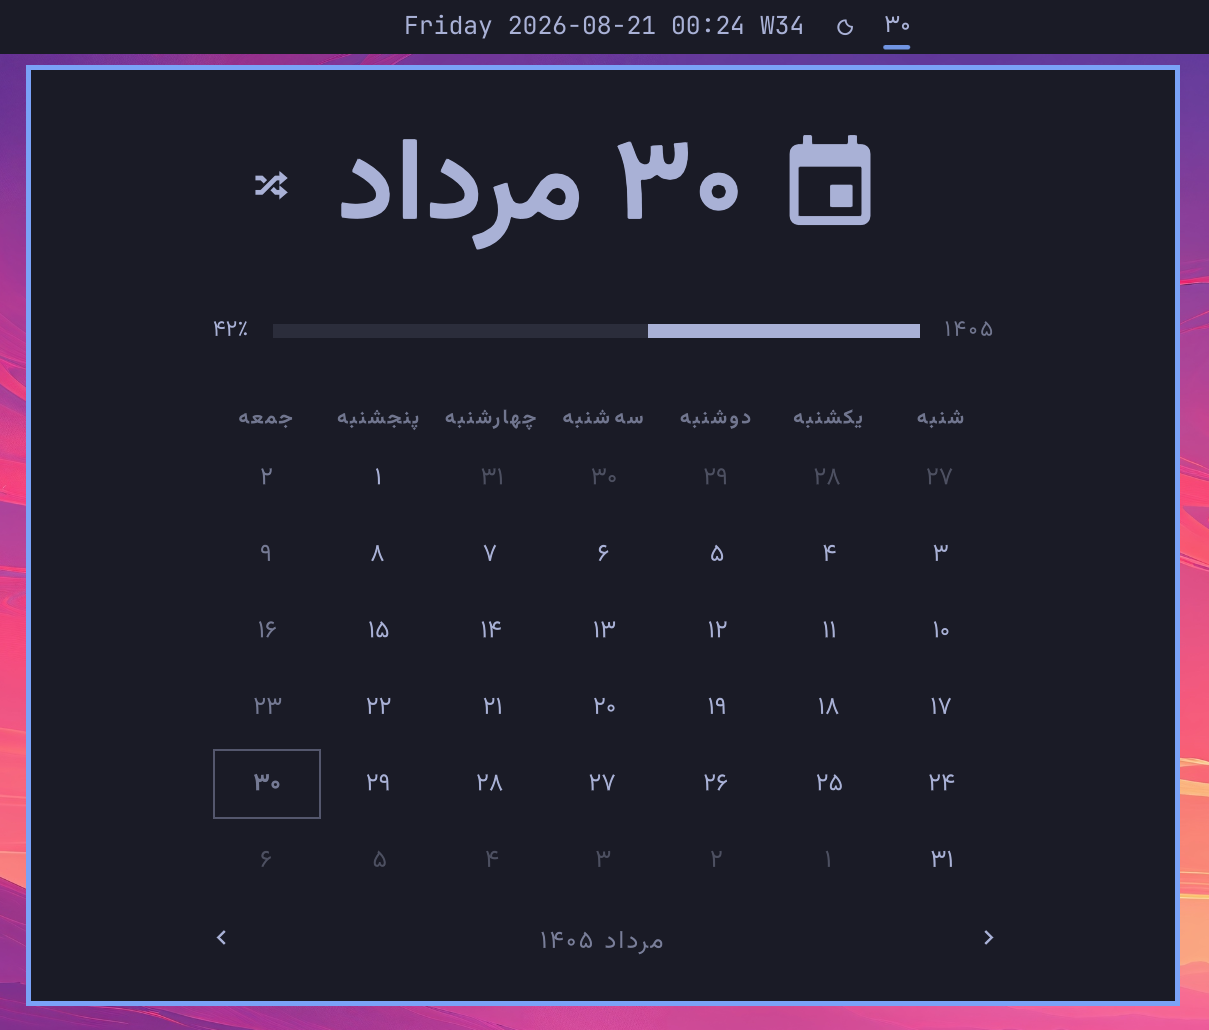
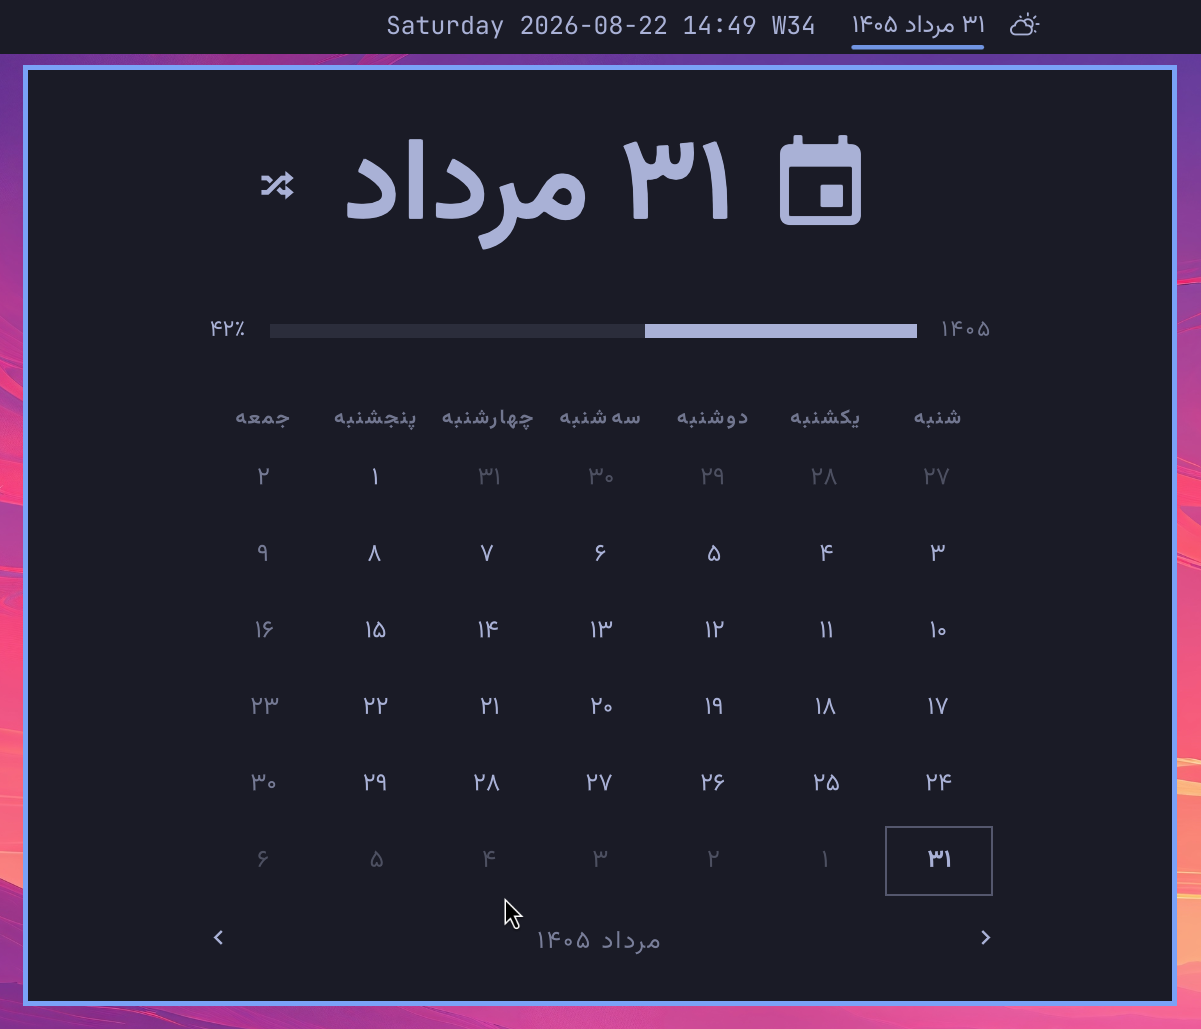
Add persistent Persian bar date formats
- Update preview image
- Update README

diff --git a/BarWidget.qml b/BarWidget.qml
@@ -7,15 +7,19 @@ import "Model.js" as Model
 
 // Persian day-of-month label for the bar, and host for the Jalali calendar.
 //
-// Left click reveals the calendar; middle click opens the timezone picker.
+// Left click reveals the calendar, right click cycles Persian label formats,
+// and middle click opens the timezone picker.
 BarWidget {
   id: root
   moduleName: "leomoon-studios.omarchy-persian-calendar"
 
   property date displayDate: clock.date
 
-  readonly property var persianDate: Model.persianForDate(displayDate)
-  readonly property string displayText: Model.toPersianDigits(persianDate.day)
+  readonly property string configuredFormat: vertical
+    ? setting("verticalFormat", "day")
+    : setting("format", "day-month-year")
+  readonly property var formatRing: Model.persianBarFormats(vertical)
+  readonly property string displayText: Model.formatPersianBar(displayDate, configuredFormat)
   readonly property var verticalLines: displayText.split("\n")
   readonly property string configuredFontFamily: String(setting("fontFamily", "")).trim()
   readonly property string displayFontFamily: configuredFontFamily !== ""
@@ -30,6 +34,20 @@ BarWidget {
   function refresh() {
     displayDate = new Date()
     if (panelLoader.item && panelLoader.item.refresh) panelLoader.item.refresh()
+  }
+
+  function cycleFormat() {
+    var current = String(configuredFormat)
+    var next = Model.nextPersianBarFormat(formatRing, current)
+    if (next === "" || next === current) return
+
+    var entry = { id: root.moduleName }
+    for (var key in root.settings) if (key !== "id") entry[key] = root.settings[key]
+    entry[vertical ? "verticalFormat" : "format"] = next
+
+    root.settings = entry
+    if (root.bar && root.bar.shell && typeof root.bar.shell.updateEntryInline === "function")
+      root.bar.shell.updateEntryInline(root.moduleName, entry)
   }
 
   // ---- Calendar popup. Shape contract for shell.summon/hide/toggle
@@ -107,6 +125,7 @@ BarWidget {
     target: "leomoon-studios.omarchy-persian-calendar"
 
     function refresh(): void { root.broadcast("refresh") }
+    function cycleFormat(): void { root.cycleFormat() }
     function open(): void { root.open() }
     function close(): void { root.close() }
     function show(): void { root.open() }
@@ -128,7 +147,8 @@ BarWidget {
     verticalPadding: 8.75
 
     onPressed: function(b) {
-      if (b === Qt.MiddleButton) { if (root.bar) root.bar.run("omarchy-menu-timezone") }
+      if (b === Qt.RightButton) root.cycleFormat()
+      else if (b === Qt.MiddleButton) { if (root.bar) root.bar.run("omarchy-menu-timezone") }
       else if (b === Qt.LeftButton) root.togglePanel()
     }
 

diff --git a/Model.js b/Model.js
@@ -116,6 +116,54 @@ function persianWeekdayName(weekday) {
   return PERSIAN_WEEKDAY_NAMES[Number(weekday)] || ""
 }
 
+// Stable identifiers for the Persian bar label. Keeping these independent
+// from Qt date-format strings lets every date component come from Jalali
+// conversion and makes saved settings portable across locales.
+var PERSIAN_BAR_FORMATS = [
+  "day-month-year",
+  "day",
+  "weekday-day",
+  "day-month",
+  "weekday-day-month",
+  "full-date",
+  "time",
+  "day-month-time",
+  "weekday-full-date-time"
+]
+
+function persianBarFormats(vertical) {
+  return vertical ? ["day"] : PERSIAN_BAR_FORMATS.slice()
+}
+
+function nextPersianBarFormat(formats, current) {
+  if (!formats || formats.length === 0) return "day-month-year"
+  var index = formats.indexOf(String(current === undefined || current === null ? "" : current))
+  return formats[(index + 1) % formats.length]
+}
+
+function formatPersianBar(date, format) {
+  var value = date instanceof Date && !isNaN(date.getTime()) ? date : new Date()
+  var persian = persianForDate(value)
+  var day = toPersianDigits(persian.day)
+  var month = persianMonthName(persian.month)
+  var weekday = persianWeekdayName(value.getDay())
+  var fullDate = toPersianDigits(persian.year + "-" + pad2(persian.month) + "-" + pad2(persian.day))
+  var time = toPersianDigits(pad2(value.getHours()) + ":" + pad2(value.getMinutes()))
+
+  switch (String(format || "day-month-year")) {
+  case "day-month-year": return day + " " + month + " " + toPersianDigits(persian.year)
+  case "day": return day
+  case "weekday-day": return weekday + " " + day
+  case "day-month": return day + " " + month
+  case "weekday-day-month": return weekday + " " + day + " " + month
+  case "full-date": return fullDate
+  case "time": return time
+  case "day-month-time": return day + " " + month + " " + time
+  case "weekday-full-date-time": return weekday + " " + day + " " + month + " " + toPersianDigits(persian.year) + " " + time
+  default: return day + " " + month + " " + toPersianDigits(persian.year)
+  }
+}
+
 function persianDayOfYear(month, day) {
   var m = Number(month)
   var d = Number(day)
@@ -453,6 +501,9 @@ if (typeof module !== "undefined") {
     ,persianKeyForDate: persianKeyForDate
     ,persianMonthName: persianMonthName
     ,persianWeekdayName: persianWeekdayName
+    ,persianBarFormats: persianBarFormats
+    ,nextPersianBarFormat: nextPersianBarFormat
+    ,formatPersianBar: formatPersianBar
     ,persianDayOfYear: persianDayOfYear
     ,persianDaysInYear: persianDaysInYear
     ,persianMonthLength: persianMonthLength

diff --git a/test/model-test.js b/test/model-test.js
@@ -44,6 +44,26 @@ assert.strictEqual(model.persianYearProgressPercent(1405, 1, 1), 0)
 assert.strictEqual(model.persianYearProgressPercent(1405, 5, 29), 42)
 assert.deepStrictEqual(model.weekdayOrder(6), [6, 0, 1, 2, 3, 4, 5])
 
+const formatDate = new Date(2026, 7, 21, 9, 7)
+assert.strictEqual(model.formatPersianBar(formatDate, "day-month-year"), "۳۰ مرداد ۱۴۰۵")
+assert.strictEqual(model.formatPersianBar(formatDate, "day"), "۳۰")
+assert.strictEqual(model.formatPersianBar(formatDate, "weekday-day"), "جمعه ۳۰")
+assert.strictEqual(model.formatPersianBar(formatDate, "day-month"), "۳۰ مرداد")
+assert.strictEqual(model.formatPersianBar(formatDate, "weekday-day-month"), "جمعه ۳۰ مرداد")
+assert.strictEqual(model.formatPersianBar(formatDate, "full-date"), "۱۴۰۵-۰۵-۳۰")
+assert.strictEqual(model.formatPersianBar(formatDate, "time"), "۰۹:۰۷")
+assert.strictEqual(model.formatPersianBar(formatDate, "day-month-time"), "۳۰ مرداد ۰۹:۰۷")
+assert.strictEqual(model.formatPersianBar(formatDate, "weekday-full-date-time"), "جمعه ۳۰ مرداد ۱۴۰۵ ۰۹:۰۷")
+assert.strictEqual(model.formatPersianBar(formatDate, "unknown"), "۳۰ مرداد ۱۴۰۵")
+assert.strictEqual(model.formatPersianBar(formatDate), "۳۰ مرداد ۱۴۰۵")
+assert.deepStrictEqual(model.persianBarFormats(true), ["day"])
+assert.strictEqual(model.nextPersianBarFormat(model.persianBarFormats(false), "weekday-day-month"), "full-date")
+assert.strictEqual(model.nextPersianBarFormat(model.persianBarFormats(false), "weekday-full-date-time"), "day-month-year")
+assert.strictEqual(model.nextPersianBarFormat(model.persianBarFormats(false), "unknown"), "day-month-year")
+
+const defaultFormatDate = new Date(2026, 7, 22, 9, 7)
+assert.strictEqual(model.formatPersianBar(defaultFormatDate, "day-month-year"), "۳۱ مرداد ۱۴۰۵")
+
 const grid = model.persianMonthGrid(1405, 5, 6, "1405-05-29")
 assert.strictEqual(grid.length, 6)
 assert.ok(grid.every(week => week.days.length === 7))

diff --git a/README.md b/README.md
@@ -2,15 +2,10 @@
 
 A Persian (Solar Hijri/Jalali) calendar widget for the Omarchy 4 shell.
 
-The bar displays today's Jalali day using Persian numerals. Left-clicking it
-opens a theme-aware Persian calendar based on Omarchy's built-in clock panel.
-Weeks follow the Persian convention and display Saturday through Friday:
+The bar displays today's Jalali day, month, and year using Persian numerals. Left-clicking it opens a theme-aware Persian calendar based on Omarchy's built-in clock panel. Right-clicking cycles through Persian date and time labels, including the weekday, day, and month form. The selected format is saved in
+Omarchy's bar configuration. 
 
-`شنبه، یکشنبه، دوشنبه، سهشنبه، چهارشنبه، پنجشنبه، جمعه`
-
-The popup uses a fully right-to-left layout: Saturday is the rightmost day,
-Friday is the leftmost, and the hero, progress rail, and navigation controls
-are mirrored consistently.
+The popup uses a fully right-to-left layout: Saturday is the rightmost day, Friday is the leftmost, and the hero, progress rail, and navigation controls are mirrored consistently.
 
 A built-in date converter switches between Jalali-to-Gregorian and
 Gregorian-to-Jalali modes. It accepts Persian, Arabic, or Latin numerals and
@@ -24,14 +19,7 @@ runs entirely inside the plugin without launching a background process.
 
 ```bash
 omarchy plugin add https://github.com/leomoon-studios/omarchy-persian-calendar --enable
-omarchy bar move leomoon-studios.omarchy-persian-calendar --section center
-```
-
-To use it as the exact center anchor, set this value in
-`~/.config/omarchy/shell.json`:
-
-```json
-"centerAnchor": "leomoon-studios.omarchy-persian-calendar"
+omarchy bar move leomoon-studios.omarchy-persian-calendar --section center --after omarchy.clock
 ```
 
 You can then disable the built-in clock if you want this widget to replace it:
@@ -65,6 +53,7 @@ Useful Persian-capable choices include `Vazirmatn UI`, `Vazirmatn`,
 ## Interactions
 
 - Left click: open or close the calendar
+- Right click: cycle the Persian bar date/time format
 - Middle click: open Omarchy's timezone menu
 - Mouse wheel or `[` / `]`: previous or next month
 - Arrow left/right: previous or next month
